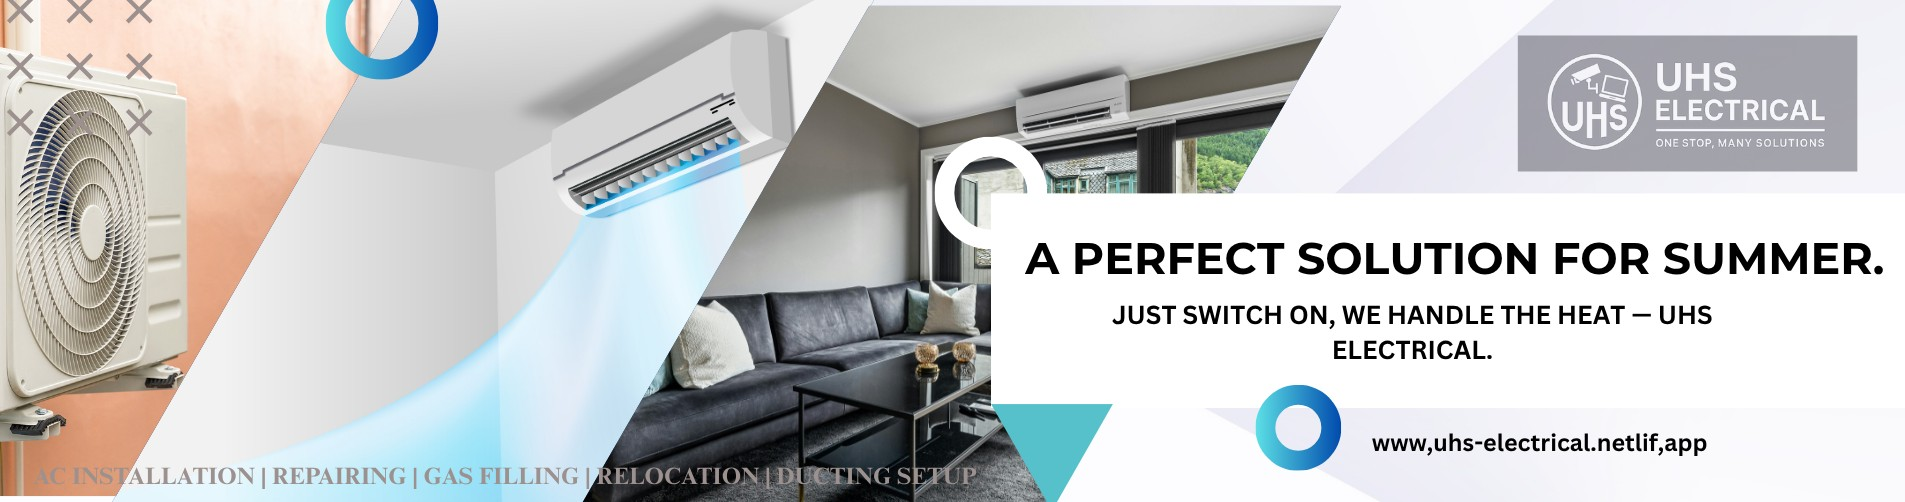
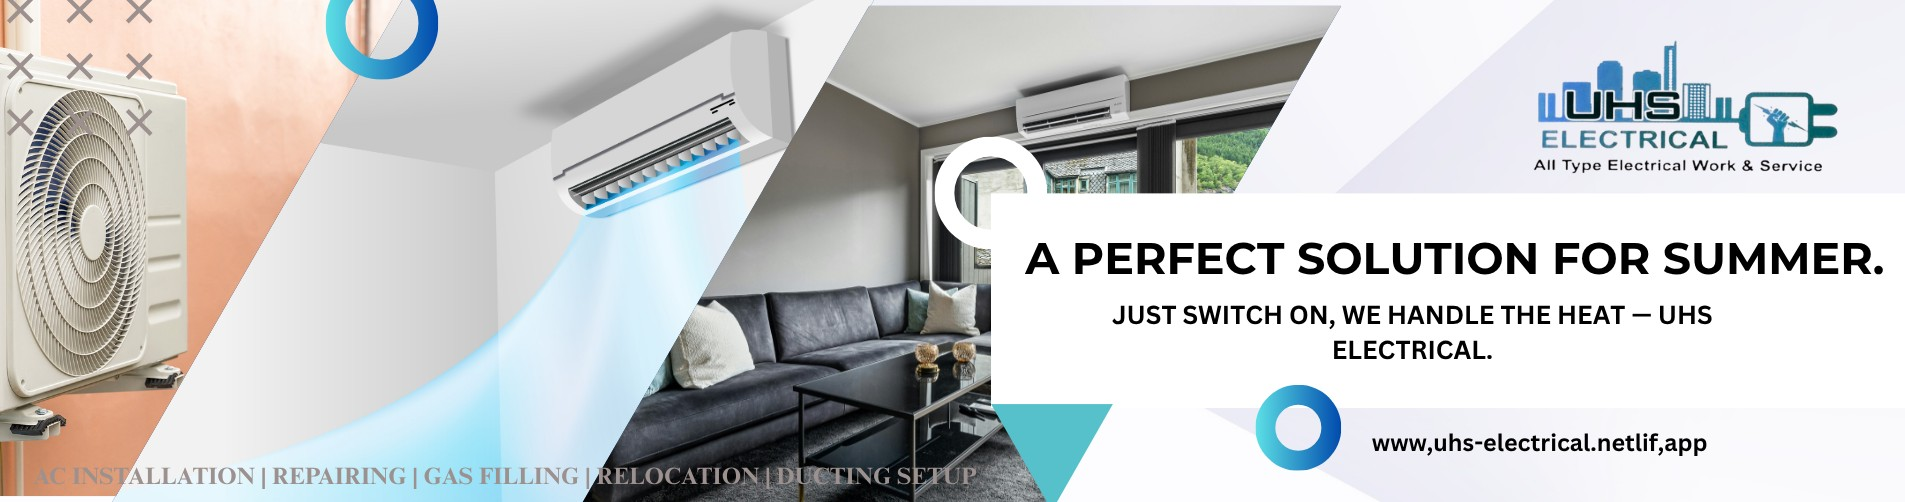
ug

Changed region(s): [[0.7743, 0.0598, 0.9911, 0.3586]]

diff --git a/index.html b/index.html
@@ -14,10 +14,11 @@
   <!-- Open Graph for social sharing -->
   <meta property="og:title" content="UHS Electrical – Your One-Stop Electrical Solution" />
   <meta property="og:description" content="CCTV, AC, Internet, Laptop Repairs & More in Surat." />
-  <meta property="og:image" content="https://uhs-electrical.netlify.app/img/benner1.jpg" />
+  <!--<meta property="og:image" content="https://uhs-electrical.netlify.app/img/benner1.jpg" />
   <meta property="og:image" content="https://uhs-electrical.netlify.app/img/benner2.jpg" />
   <meta property="og:image" content="https://uhs-electrical.netlify.app/img/benner3.jpg" />
-  <meta property="og:image" content="https://uhs-electrical.netlify.app/img/benner4.jpg" />
+  <meta property="og:image" content="https://uhs-electrical.netlify.app/img/benner4.jpg" />-->
+  <meta property="og:image" content="https://uhs-electrical.netlify.app/img/uhslogo.png"" />
   <meta property="og:url" content="https://uhs-electrical.netlify.app" />
 
 
@@ -144,6 +145,45 @@ header {
   }
 }
 
+.highlighted-line {
+  font-size: 20px;
+  font-weight: 600;
+  font-style: italic;
+  color: #003366;
+  line-height: 1.6;
+  text-align: center;
+  margin-top: 30px;
+}
+
+.highlighted-line .brand {
+  color: #0059b3;
+  font-weight: 700;
+  text-transform: uppercase;
+  letter-spacing: 0.5px;
+}
+@media (max-width: 600px) {
+  .services-grid {
+    display: grid;
+    grid-template-columns: repeat(2, 1fr); /* 2 columns */
+    gap: 16px;
+    justify-items: center;
+  }
+
+  .service-card {
+    width: 100%; /* take full cell width */
+    max-width: 150px; /* limit size */
+    padding: 10px;
+    font-size: 14px;
+  }
+
+  .service-card img {
+    width: 60px;
+    height: 60px;
+  }
+}
+
+
+
 	
 
   </style>
@@ -168,6 +208,7 @@ header {
     <img src="img/benner2.jpg" alt="Banner" />
     <img src="img/benner3.jpg" alt="Banner" />
     <img src="img/benner4.jpg" alt="Banner" />
+	<img src="img/uhslogo.png" alt="Banner"/>
   </section>
 
   <!-- ✅ Services Section -->
@@ -204,10 +245,25 @@ header {
   <!-- ✅ Why Choose Us Section -->
   <section class="section">
     <h2>Why Choose Us?</h2>
+	<h4>Just One Name. UHS ELECTRICAL. One Stop, Many Solutions.</h4>
+	<p>In today’s world, everyone needs <b>reliable tech solutions</b>—whether it’s securing your space with CCTV, getting your laptop repaired urgently, installing <br>a new AC before the summer heat hits, or staying connected with high-speed internet. At <b>UHS ELECTRICAL</b>., we’ve built our name by solving all these<br> problems under one trusted roof.<br>
+	We are not just another service provider — we are <b>your local tech partner</b>. With roots in <b>Surat</b>, we understand your expectations: fast response, honest<br> pricing, and quality service that lasts.
+	<h2>What Makes Us Different?</h2>
+	<p><strong>🛠 All-in-One Services -</strong> From CCTV to internet, from laptops to AC — we handle it all. You don’t need to run around. One call and your problem is ours.</p>
+	<p><strong>📍 Local Team, Global Standards -</strong> We're based in Surat, but our professionalism matches the best. We combine personal support with quality you can trust.</p>
+	<p><strong>📞 Easy Booking & Fast Response -</strong> Call us, WhatsApp us, or message online — we’re available when you need us most.</p>
+	<p><strong>🔧 Experienced & Verified Technicians -</strong> Our team is trained, experienced, and background-verified. We don’t just fix things — we fix them right.</p>
+	<p><strong>💬 Clear Communication, No Hidden Charges -</strong> You’ll always know what we’re doing, why we’re doing it, and how much it will cost. No surprises.</p>
+	<h2>Whether It’s Urgent or Routine — We’re Always Ready</h2>
+	<p>We’ve helped hundreds of homes and businesses in Surat get back to work quickly and stress-free. From <b>AMC support</b> to <b>custom tech upgrades</b>,<br> from small repairs to full installations — <b>UHS ELECTRICAL</b> delivers with dedication.</p>
     <p>✅ Trusted Local Team</p>
-    <p>📞 24/7 Support</p>
     <p>📍 Based in Surat</p>
     <p>💬 WhatsApp Booking</p>
+	<p class="highlighted-line">
+  Just the service you need — when you need it most.<br>
+  Choose <span class="brand">UHS ELECTRICAL</span>. Let’s make tech simple again.
+	</p>
+
   </section>
 
   <!-- ✅ Footer -->
